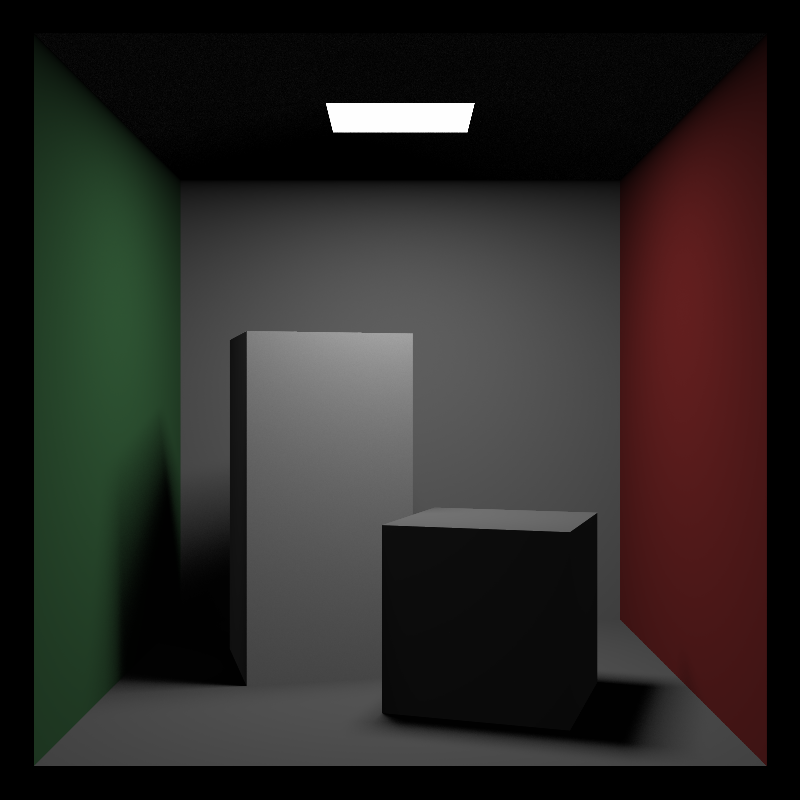
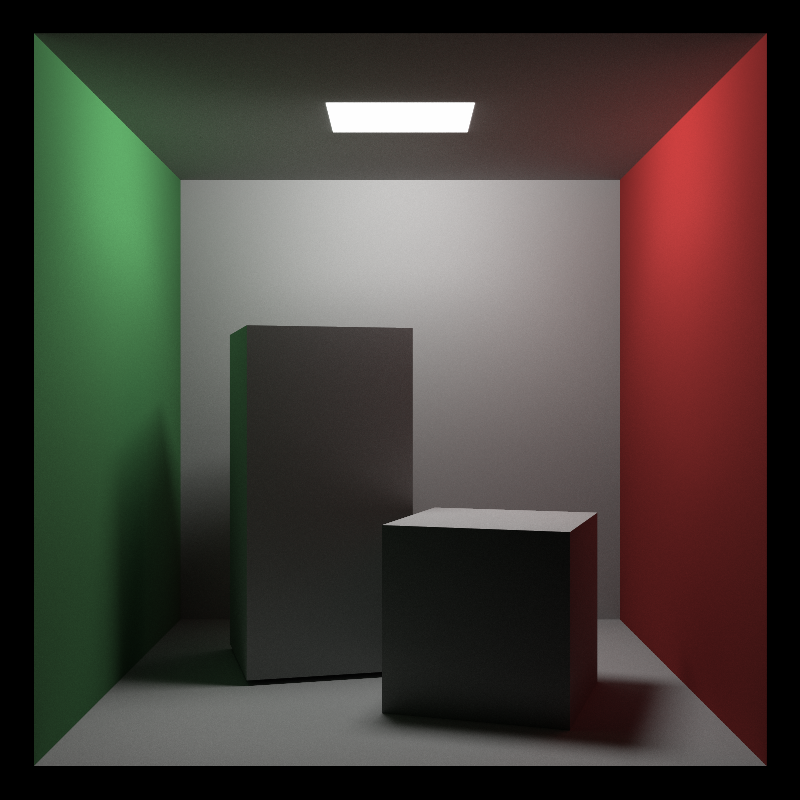
update

diff --git a/_posts/miscellaneous/2024-10-30-mixture-p.md b/_posts/miscellaneous/2024-10-30-mixture-p.md
@@ -4,7 +4,7 @@ title:  "混合密度"
 author: mosfet
 tags: 杂项 渲染器
 ---
-请见[Ray Tracing: The Rest of Your Life](https://raytracing.github.io/books/RayTracingTheRestOfYourLife.html)。这是笔者相关实践的记录。结论部分是不完善的。  
+混合密度的尝试[(见)](https://raytracing.github.io/books/RayTracingTheRestOfYourLife.html)。留存一些笔记和记录，而然结论无法保证正确性。  
 ## 测试
 <div class="x gr txac">
   <div class="x la flex mg0">
@@ -15,7 +15,7 @@ tags: 杂项 渲染器
       <img src="/assets/i/4-2.png">
     </div>
   </div>
-  <p>图1：完全间接照明(经典情况)、采样混合但只有间接部分</p>
+  <p>图1：完全间接照明(经典情况)、关闭直接采样</p>
 </div>
 
 <div class="x gr txac">
@@ -27,11 +27,11 @@ tags: 杂项 渲染器
       <img src="/assets/i/4-4.png">
     </div>
   </div>
-  <p>图2：完全间接照明(经典情况)、采样混合并找到直接光照，光源看上去好多了</p>
+  <p>图2：完全间接照明(经典情况)、打开灯光采样</p>
 </div>
 
-## notes
-
+---
+## 记录
 `g/p = ρLcosθ/p`  
 我们要注意ρ(i,o)，以及g/p中的p项，其中p是采样散射的分布。  
 朗伯BRDF等于`ρ = self.albedo/Pi`。带入方程，`g/p = L* A/PI dot(n, out) / p`。  
@@ -39,7 +39,7 @@ tags: 杂项 渲染器
 
 (5)  
 注意他所谓的散射分布，压根就不在方程里。我用`sp`来表示好了。这个散射分布是cos相关的那个。  
-现在将该散射分布`sp`推导为**显式函数**。  
+现在将该散射分布`sp`推导为**显式(对程序而言)**密度函数。  
 散射半球的积分为1，并且朗伯是一个正比函数`sp = C * cosθ`(随着角度具有更大概率或配重)。则很容易给出`C = 1/pi -> sp = cosθ / pi`。有些积分技巧总是可以注意，例如将半球转为二维。  
 
 (6)  
@@ -53,10 +53,9 @@ tags: 杂项 渲染器
 也就是说，如果您不确定材质的正确采样模式是什么，那么您选择的PDF并不是您最关心的问题，因为错误地选择散射函数会毁掉您的渲染。至少它会产生错误的结果。
 您可能会发现自己遇到了蒙特卡罗程序中最难发现的错误 - 产生合理外观图像的错误！您不会知道该错误是在程序的第一个版本中，还是在第二个版本中，或者两者都存在！
 
-(9)  
-尽管阴影光线可以解决直接照明。  
-但他决定使光线更有可能射向灯光。对于散射而言，直接让散射指向采样的光线。这可能很抽象。  
-我们选择指向光源的散射并计算对应的`p`。结果为`sp / lp`。  
+## 灯密度(9)
+我们知道，直接照明问题可能关于阴影光线。而然，可以通过将散射完全指向灯光获得类似的效果，因为这说明表面仅可能被来自灯光的光线照亮。对于散射而言，直接让散射指向采样的光线。这可能很抽象。  
+我们选择指向光源的散射方向并计算对应的`p`。结果为`sp / lp`。  
 
 `随机采样灯光线(grab-p) -> 计算采样分布 -> /PDF`。  
 
@@ -75,17 +74,44 @@ p(dv)dv = p(da)dA
 
 p(dv) = dot(grab-p,grab-p)/ cosθA
 ```
+```cpp
+float p_lights( in vec3 scat, in vec3 n, in float area) {
+  float dist_square = dot(scat, scat);
+  scat = normalize(scat);
+  float n_cosine = dot(n, scat);
+  if (n_cosine < 0.0) return -1.0; // 拒绝与灯相背离的遮挡表面
+  float lpdf = dist_square / (dot(n, scat) * area);
+  return lpdf;
+}
+```
 
-(10)  
-对漫射混合采样(跳过其他材料)。  
-`albedo *= sp * material.albedo / (0.5 * (lp + sp));`。  
-在直接光散射和漫射散射随机选择一条，总是计算材质的`sp`，最后以此形式混合。再次注意，和项中的`sp = 间接p`，因为它们从实际用的散射方法的分布推导中出来相等。  
+## 混合模式(10)
+我们已经知道如何将散射线"引导"至灯源，这样它就不会采集其他光线，并在下一次击中灯具结束。  
+当然，我们要计算上面的几何公式，然后给出`lp`。  
+出于这样的目的的材料是漫射材料，因为改变金属和介电的散射行为很难说需要做什么。  
+```cpp
+vec3 rayi = ray_path;
+float sp, lp, area;
+bool scat_naturally = false;
 
-(11.12)  
-混合密度方法是更传统的阴影光线的替代方法。阴影用于检查从交叉点到给定光源的无障碍路径。混合密度方法还可以对窗户或门下明亮的裂缝或任何您认为可能明亮或重要的东西进行采样。但您仍然会在大多数专业路径追踪器中看到阴影光线。
+LightScatPath(p, scat_naturally, ray_path, area);
+if (scat_naturally) Lambertian(material, normal, ray_path);
 
-修复材料镜面反射可以使其作为跳过f()/p()的特殊情况，只需跳过显式的/p()计算。  
-对于我们正在镜面处理的材质，我们实际上跳过了所有PDF工作。  
-玻璃物体很难很好地渲染，所以我们想为它们制作一个PDF。  
+sp = sp_lambertian(ray_path, normal);
+lp = scat_naturally ? sp : p_lights(ray_path, normal, area);
+if (lp == -1.0) return vec3(0.0);
+albedo *= sp * material.albedo / (0.5 * (lp + sp));
+```
+混合模式是`albedo *= sp * material.albedo / (0.5 * (lp + sp));`。  
+我们让`LightScatPath`决定选择什么散射线，并隐式地将天空当作光源，一旦它被选择，则我们不应该做任何处理，这应该使这样大的一个光源返回自然的漫射结果(就像我们在经典光线追踪里那样)。这种情况下，`lp = sp`，因为它不需要计算对于引导灯具光线的采样。  
+总之，总是评估材料散射分布`sp`，再混合和项中的两种密度`sp,lp`。其中，`sp = 散射分布`，因为它们从实际用的散射方法的分布推导中出来相等。  
 
-12.3制作金属块的PDF可以减少天花板上的噪音。而且并不是很有趣，所以让我们为玻璃球创建PDF。它速度更快，渲染效果更有趣。  
+## 阴影光线呢？(11)
+`混合密度(mixture-density)`是更传统的**阴影光线**的替代方法。除了灯光之外，还可以对窗户或门下明亮的裂缝或任何您认为可能明亮或重要的东西进行采样。但大多数专业路径追踪器中看到阴影光线也是很正常的。  
+对于粗略结果来说，阴影光线往往比混合密度更便宜，并且在实时中变得越来越普遍。  
+
+## 尾章(12)
+玻璃物体很难很好地渲染，除了灯光以外可能还需要对此进行重要性采样。  
+
+12.3.  
+略暂不实现。  

diff --git a/_posts/miscellaneous/2024-10-24-illumination.md b/_posts/miscellaneous/2024-10-24-illumination.md
@@ -4,7 +4,7 @@ title:  "照明"
 author: mosfet
 tags: 杂项 着色 照明
 ---
-正确组合所有现有着色技术是一项复杂的决策。  
+如何巧妙组合各种着色技术可能是一项复杂的决策。  
 除了经典的全局光照算法外，传统着色模型可以通过精心设计的调整为场景提供可信的照明。  
 
 **户外照明**  
@@ -23,11 +23,10 @@ AO应该留给补光灯。太阳是如此小的光源，阴影已经处理了这
       <img src="/assets/i/3-1.png">
     </div>
   </div>
-  <p>图1</p>
+  <p></p>
 </div>
 
 **路径追踪**  
-这是我尚未完成的示例。  
 <div class="x gr txac">
   <div class="x la flex mg0">
     <div class="x la item6-lg item12 pd0">
@@ -37,5 +36,5 @@ AO应该留给补光灯。太阳是如此小的光源，阴影已经处理了这
       <img src="/assets/i/3-3.png">
     </div>
   </div>
-  <p>图2：RT3</p>
+  <p>图2：一个周末的光线追踪复现结果</p>
 </div>
